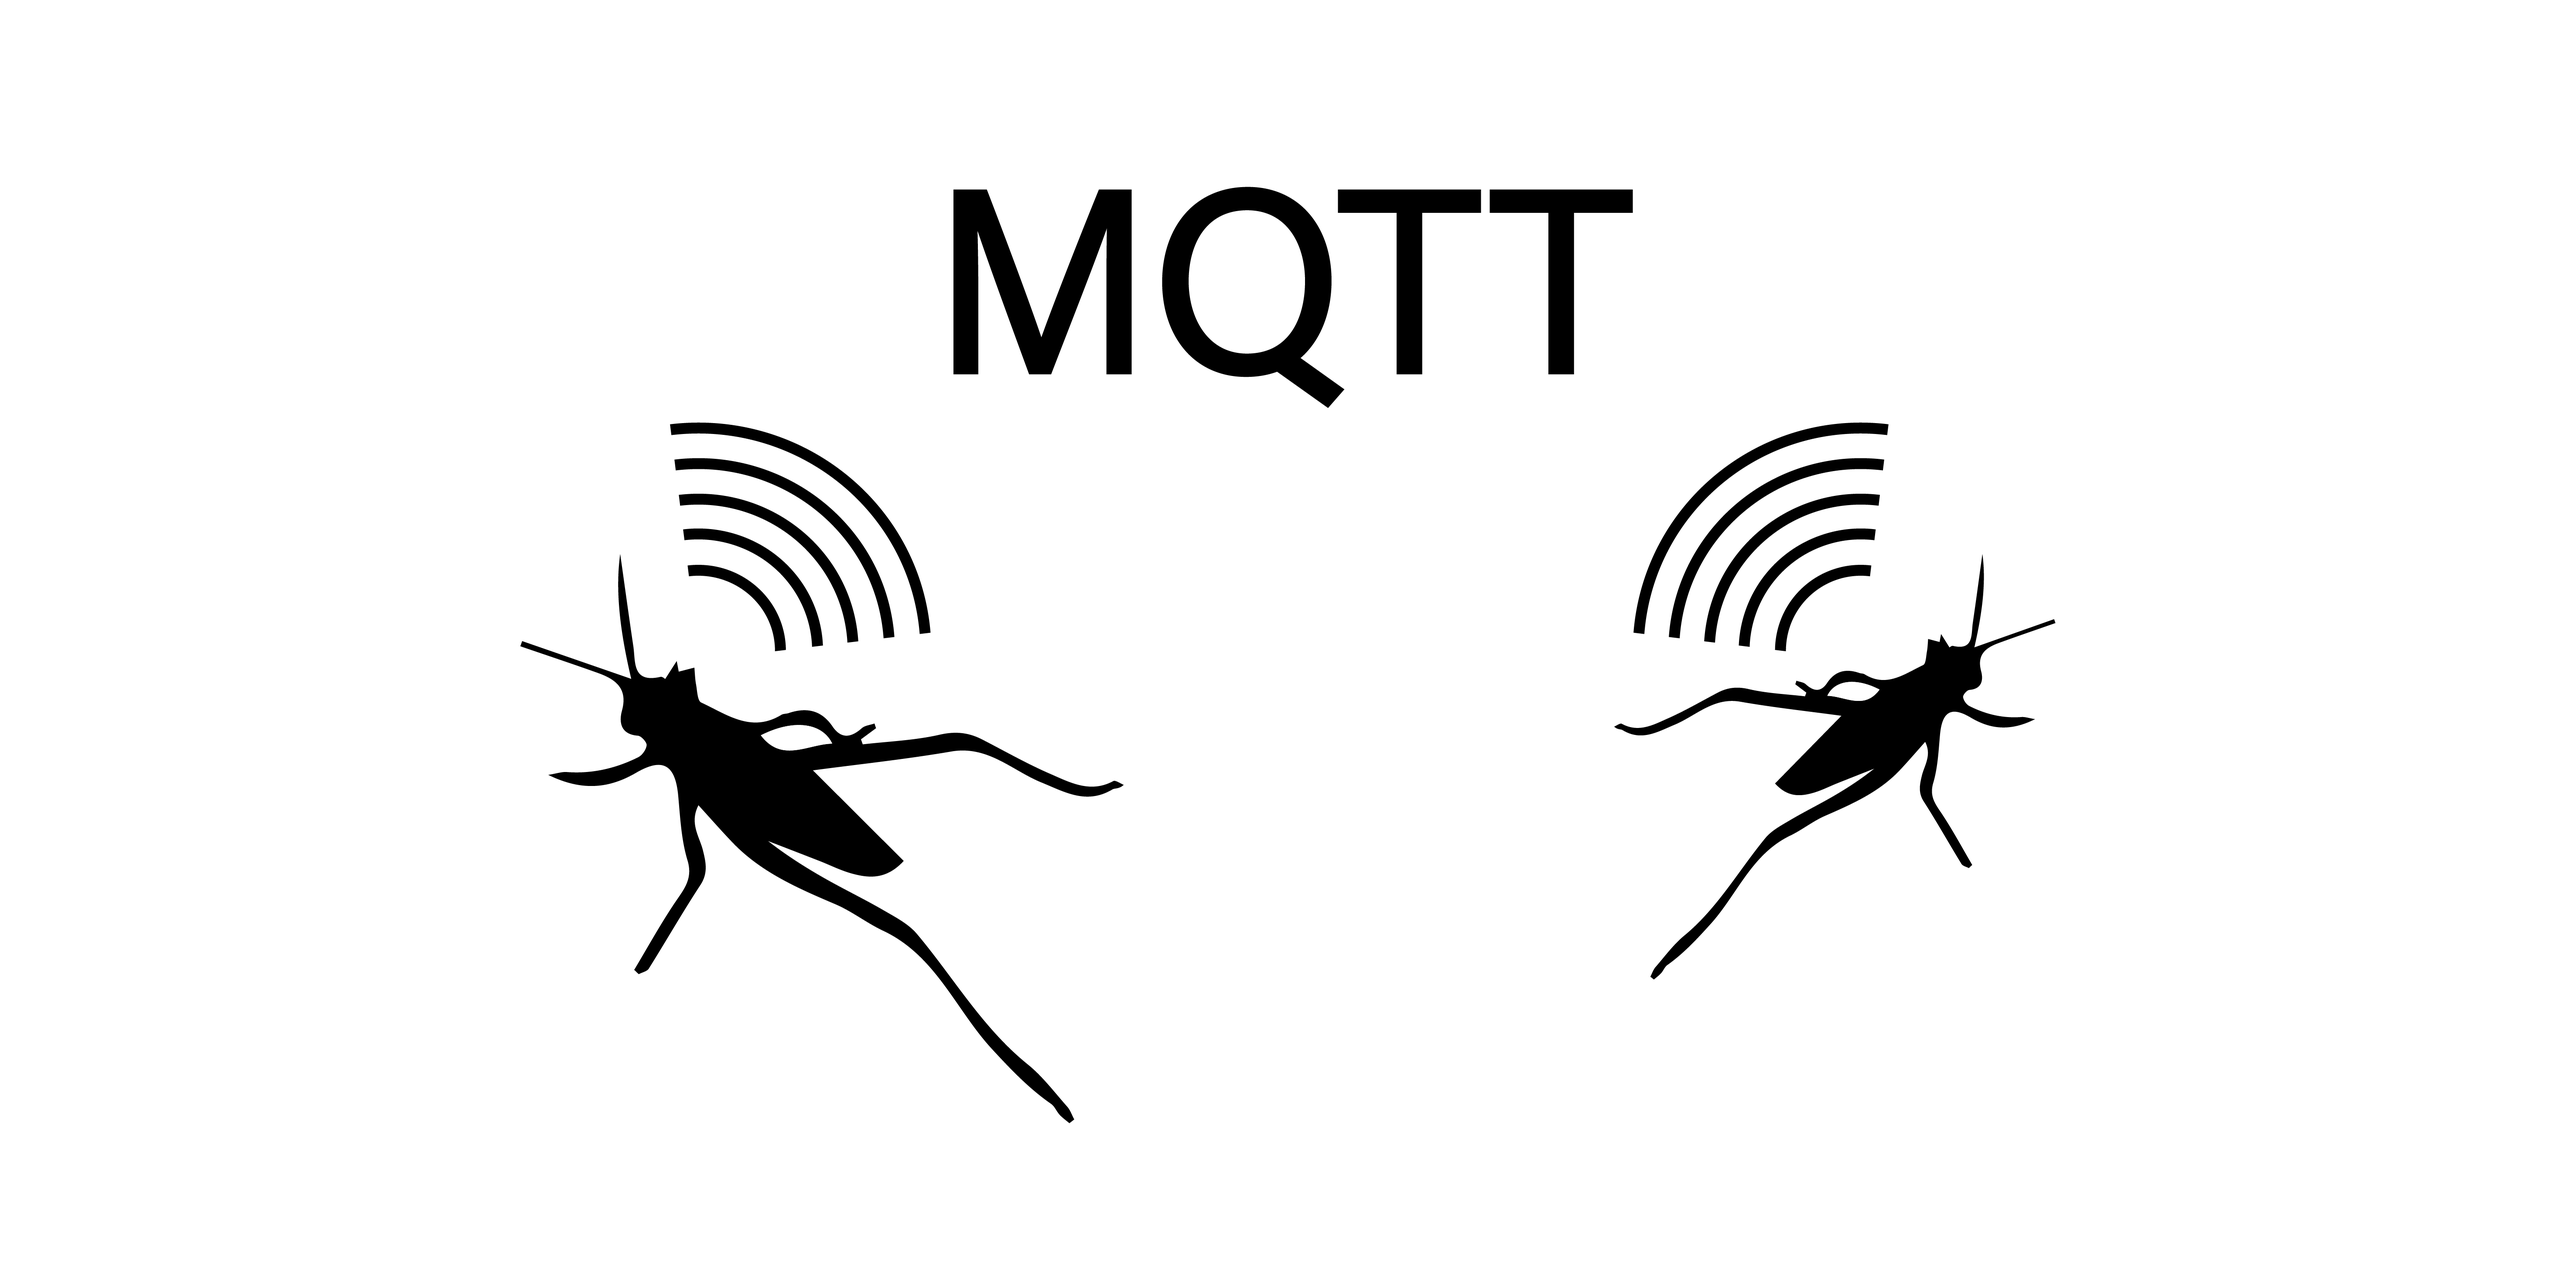
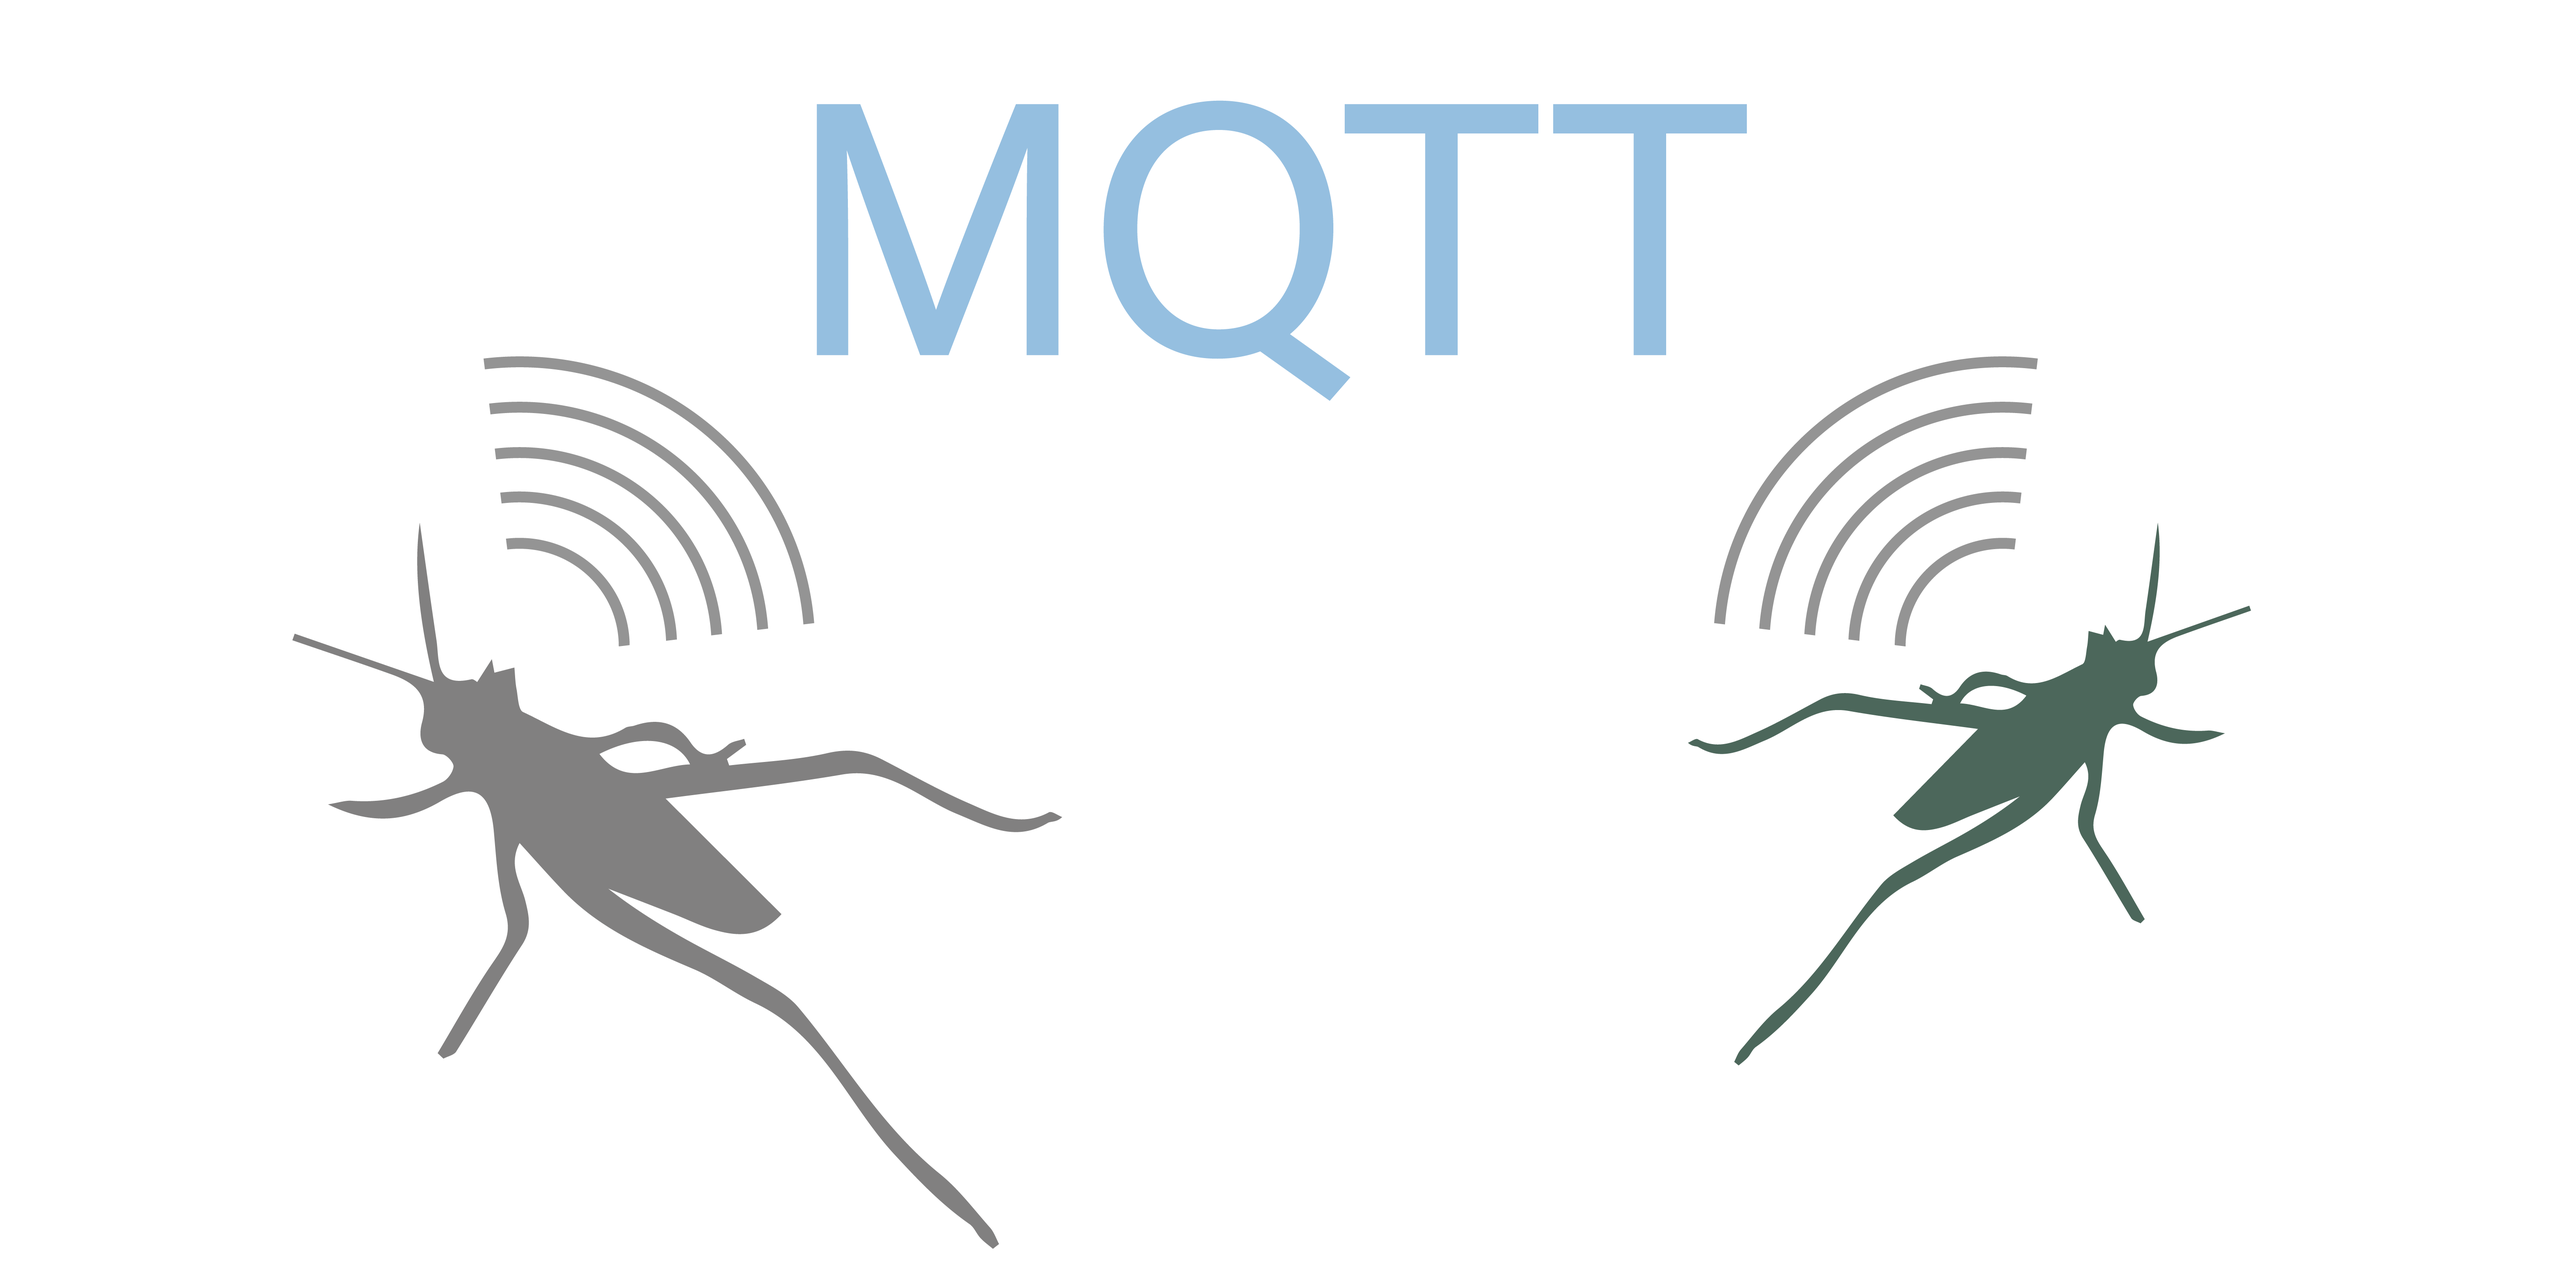
UPDATE

diff --git a/pages/DesignTools.html b/pages/DesignTools.html
@@ -70,7 +70,8 @@
 
 
     <h1><span class="caret"><strong>MQTT for Grasshopper</strong></span></h1>
-
+    <p><span style="color: #333333;"><strong><a style="color: #333333;" href="https://chengchili.github.io/pages/OSMKIT.html">
+      <img src="https://raw.githubusercontent.com/chengchili/chengchili.github.io/main/image/MQTT/MQTT.png" alt="" width="750" height="375" /></a></strong></span></p>
 
     </div>
     <p>&nbsp;</p>
